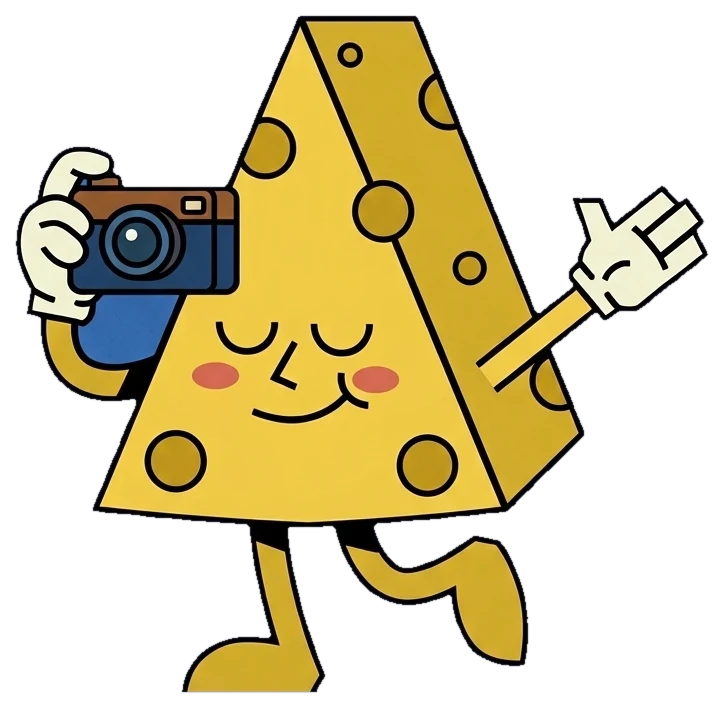
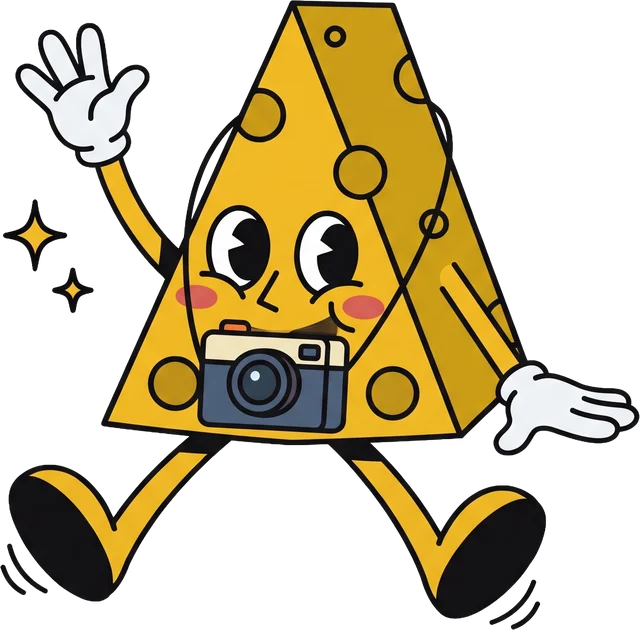
Real mascots: cheesy-3 in the hero, Firefly sitting in the footer
Hero: replace the rough cutout with the clean "cheddar cheesy 3" pose (waving,
camera on neck) on the blue disc — 66KB webp. Footer (global): add the Firefly
"sitting with the photo album" scene (122KB webp) on a reserved bottom floor
(container padding-bottom) so it sits below the footer content without
colliding (verified 20px clearance from the copyright line). Footer slots now
point at the webp. Bump cache stamp to 202609101223.

diff --git a/privacy.html b/privacy.html
@@ -21,7 +21,7 @@
   <meta property="og:image" content="https://cheddarcam.com/assets/img/og-image.png" />
 
   <link rel="preload" href="fonts/nunito-latin.woff2" as="font" type="font/woff2" crossorigin />
-  <link rel="stylesheet" href="css/styles.css?v=202609101100" />
+  <link rel="stylesheet" href="css/styles.css?v=202609101223" />
 </head>
 <body>
   <a class="skip-link" href="#main">Skip to content</a>
@@ -184,7 +184,7 @@
 
   <footer class="site-footer site-footer--dark">
     <div class="container">
-      <div class="foot-mascot" data-shot="assets/img/mascot-footer.png" data-shot-alt="" aria-hidden="true"></div>
+      <div class="foot-mascot" data-shot="assets/img/mascot-footer.webp" data-shot-alt="" aria-hidden="true"></div>
       <div class="footer-cols">
         <div class="footer-brand-col">
           <a class="foot-brand" href="/">
@@ -222,6 +222,6 @@
     </div>
   </footer>
 
-  <script src="js/main.js?v=202609101100" defer></script>
+  <script src="js/main.js?v=202609101223" defer></script>
 </body>
 </html>

diff --git a/contact.html b/contact.html
@@ -21,7 +21,7 @@
   <meta property="og:image" content="https://cheddarcam.com/assets/img/og-image.png" />
 
   <link rel="preload" href="fonts/nunito-latin.woff2" as="font" type="font/woff2" crossorigin />
-  <link rel="stylesheet" href="css/styles.css?v=202609101100" />
+  <link rel="stylesheet" href="css/styles.css?v=202609101223" />
 </head>
 <body>
   <a class="skip-link" href="#main">Skip to content</a>
@@ -69,7 +69,7 @@
 
   <footer class="site-footer site-footer--dark">
     <div class="container">
-      <div class="foot-mascot" data-shot="assets/img/mascot-footer.png" data-shot-alt="" aria-hidden="true"></div>
+      <div class="foot-mascot" data-shot="assets/img/mascot-footer.webp" data-shot-alt="" aria-hidden="true"></div>
       <div class="footer-cols">
         <div class="footer-brand-col">
           <a class="foot-brand" href="/">
@@ -107,6 +107,6 @@
     </div>
   </footer>
 
-  <script src="js/main.js?v=202609101100" defer></script>
+  <script src="js/main.js?v=202609101223" defer></script>
 </body>
 </html>

diff --git a/404.html b/404.html
@@ -13,7 +13,7 @@
   <link rel="apple-touch-icon" href="assets/img/apple-touch-icon.png" />
 
   <link rel="preload" href="fonts/nunito-latin.woff2" as="font" type="font/woff2" crossorigin />
-  <link rel="stylesheet" href="css/styles.css?v=202609101100" />
+  <link rel="stylesheet" href="css/styles.css?v=202609101223" />
 </head>
 <body>
   <a class="skip-link" href="#main">Skip to content</a>
@@ -55,7 +55,7 @@
 
   <footer class="site-footer site-footer--dark">
     <div class="container">
-      <div class="foot-mascot" data-shot="assets/img/mascot-footer.png" data-shot-alt="" aria-hidden="true"></div>
+      <div class="foot-mascot" data-shot="assets/img/mascot-footer.webp" data-shot-alt="" aria-hidden="true"></div>
       <div class="footer-cols">
         <div class="footer-brand-col">
           <a class="foot-brand" href="/">
@@ -93,6 +93,6 @@
     </div>
   </footer>
 
-  <script src="js/main.js?v=202609101100" defer></script>
+  <script src="js/main.js?v=202609101223" defer></script>
 </body>
 </html>

diff --git a/index.html b/index.html
@@ -27,7 +27,7 @@
   <meta name="twitter:image" content="https://cheddarcam.com/assets/img/og-image.png" />
 
   <link rel="preload" href="fonts/nunito-latin.woff2" as="font" type="font/woff2" crossorigin />
-  <link rel="stylesheet" href="css/styles.css?v=202609101100" />
+  <link rel="stylesheet" href="css/styles.css?v=202609101223" />
 
   <script type="application/ld+json">
   {
@@ -384,7 +384,7 @@
 
   <footer class="site-footer site-footer--dark">
     <div class="container">
-      <div class="foot-mascot" data-shot="assets/img/mascot-footer.png" data-shot-alt="" aria-hidden="true"></div>
+      <div class="foot-mascot" data-shot="assets/img/mascot-footer.webp" data-shot-alt="" aria-hidden="true"></div>
       <div class="footer-cols">
         <div class="footer-brand-col">
           <a class="foot-brand" href="/">
@@ -422,6 +422,6 @@
     </div>
   </footer>
 
-  <script src="js/main.js?v=202609101100" defer></script>
+  <script src="js/main.js?v=202609101223" defer></script>
 </body>
 </html>

diff --git a/faq.html b/faq.html
@@ -21,7 +21,7 @@
   <meta property="og:image" content="https://cheddarcam.com/assets/img/og-image.png" />
 
   <link rel="preload" href="fonts/nunito-latin.woff2" as="font" type="font/woff2" crossorigin />
-  <link rel="stylesheet" href="css/styles.css?v=202609101100" />
+  <link rel="stylesheet" href="css/styles.css?v=202609101223" />
 
   <script type="application/ld+json">
   {
@@ -227,7 +227,7 @@
 
   <footer class="site-footer site-footer--dark">
     <div class="container">
-      <div class="foot-mascot" data-shot="assets/img/mascot-footer.png" data-shot-alt="" aria-hidden="true"></div>
+      <div class="foot-mascot" data-shot="assets/img/mascot-footer.webp" data-shot-alt="" aria-hidden="true"></div>
       <div class="footer-cols">
         <div class="footer-brand-col">
           <a class="foot-brand" href="/">
@@ -265,6 +265,6 @@
     </div>
   </footer>
 
-  <script src="js/main.js?v=202609101100" defer></script>
+  <script src="js/main.js?v=202609101223" defer></script>
 </body>
 </html>

diff --git a/css/styles.css b/css/styles.css
@@ -451,15 +451,16 @@ section { padding-block: var(--section-gap); }
 .foot-mascot {
   display: none;
   position: absolute;
-  right: clamp(10px, 3vw, 44px);
-  bottom: 0;
-  width: clamp(92px, 12vw, 148px);
-  z-index: 3;
+  right: clamp(8px, 3vw, 48px);
+  bottom: 4px;
+  width: clamp(158px, 20vw, 240px);   /* wide sitting-with-photos scene */
+  z-index: 1;
   pointer-events: none;
 }
 .foot-mascot.has-shot { display: block; }
 .foot-mascot img { width: 100%; height: auto; filter: drop-shadow(0 8px 14px rgba(0, 0, 0, 0.45)); }
-.site-footer .container { position: relative; }
+/* Reserve a bottom "floor" so the sitting mascot lives below the footer content. */
+.site-footer .container { position: relative; padding-bottom: clamp(172px, 18vw, 224px); }
 @keyframes float-soft {
   0%, 100% { transform: translateY(0) rotate(-1.5deg); }
   50%      { transform: translateY(-16px) rotate(1.5deg); }
